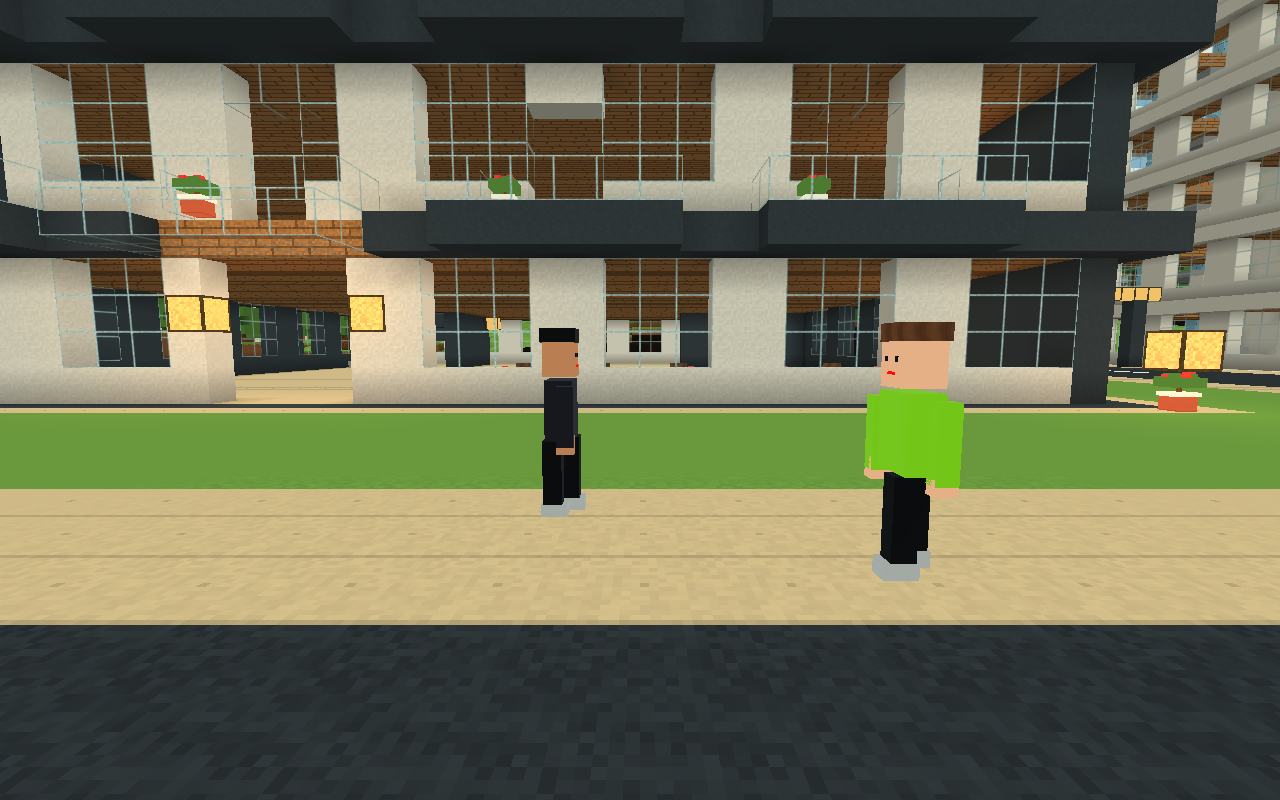
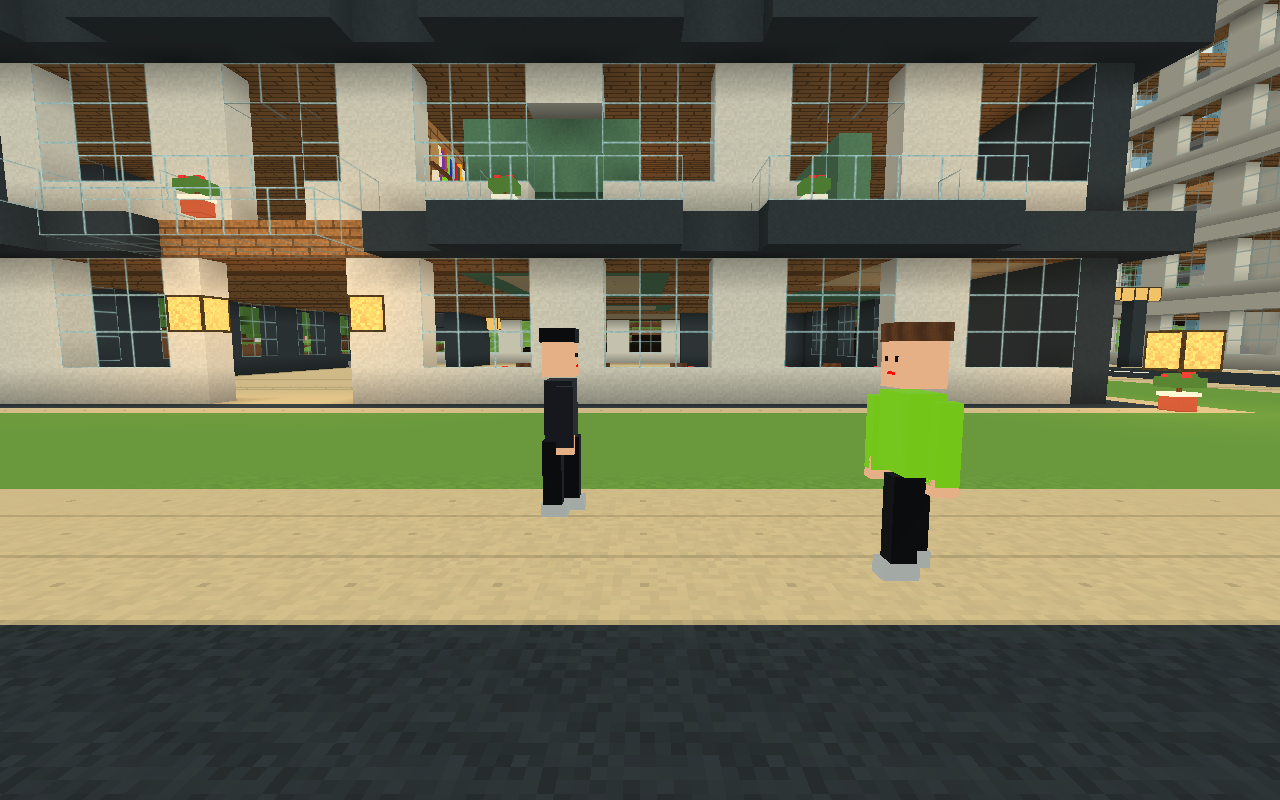
Unify character and player hand appearance

diff --git a/src/city_life.cpp b/src/city_life.cpp
@@ -258,7 +258,7 @@ std::vector<Vertex> residentMesh(const World& w,float time) {
   }
   for(int i=0;i<cityWorkerCount;++i) {
     auto at=cityWorkerPosition(w,i);if(!workerVisible(w,at))continue;
-    std::size_t start=mesh.size();float skin=105+float(i%3),shirt=80+float((i*7+2)%20);
+    std::size_t start=mesh.size();float skin=106,shirt=80+float((i*7+2)%20);
     float stride=std::sin(float(w.clock.phase*WorldClock::daySeconds)*7+i)*.10f;
     auto box=[&](glm::vec3 a,glm::vec3 b,float m){appendBox(mesh,{a,b},{-100009,0,i},m,.92f);};
     for(float side:{-1.f,1.f}) {

diff --git a/src/main.cpp b/src/main.cpp
@@ -183,7 +183,7 @@ std::string sleepMessage(SleepResult status) {
 
 int run(const Options& options) {
   const bool interactive=!options.smoke && options.frames==0;
-  SDL_SetAppMetadata("Blockworld","0.19.0","dev.bijan.blockworld");
+  SDL_SetAppMetadata("Blockworld","0.19.1","dev.bijan.blockworld");
   if(!SDL_Init(SDL_INIT_VIDEO | SDL_INIT_EVENTS)) throw std::runtime_error(SDL_GetError());
   SdlLifetime sdl;
   std::unique_ptr<SDL_Window,decltype(&SDL_DestroyWindow)> window(

diff --git a/src/ui.cpp b/src/ui.cpp
@@ -535,7 +535,7 @@ void Ui::heldTool(const HudState& h) {
       faces.push_back(face);
     }
   };
-  const glm::vec3 shaft{.52f,.29f,.13f},grain{.70f,.44f,.22f},skin{.83f,.62f,.43f},sleeve{.28f,.48f,.36f};
+  const glm::vec3 shaft{.52f,.29f,.13f},grain{.70f,.44f,.22f},skin{.94f,.74f,.59f},sleeve{.28f,.48f,.36f};
   auto block=h.selectedBlock();
   if(h.tools.removesBlocks() && h.selectedItem()==Item::Empty) {
     box({-.10f,-.10f,-.10f},{.10f,1.90f,.10f},shaft);

diff --git a/README.md b/README.md
@@ -20,7 +20,7 @@ castle are in the same world, linked by roads.
 | :---: | :---: |
 | ![Residents walking on downtown sidewalks](docs/images/population.png) | ![An adult resident and her child in their apartment](docs/images/family.png) |
 
-*Actual Metal captures from version 0.18.0. The family preview uses a temporary world.*
+*Actual Metal captures: streets in 0.19.1 and the earlier family preview in 0.18.0, using temporary worlds.*
 
 | Furnished apartment | Family care |
 | :---: | :---: |
